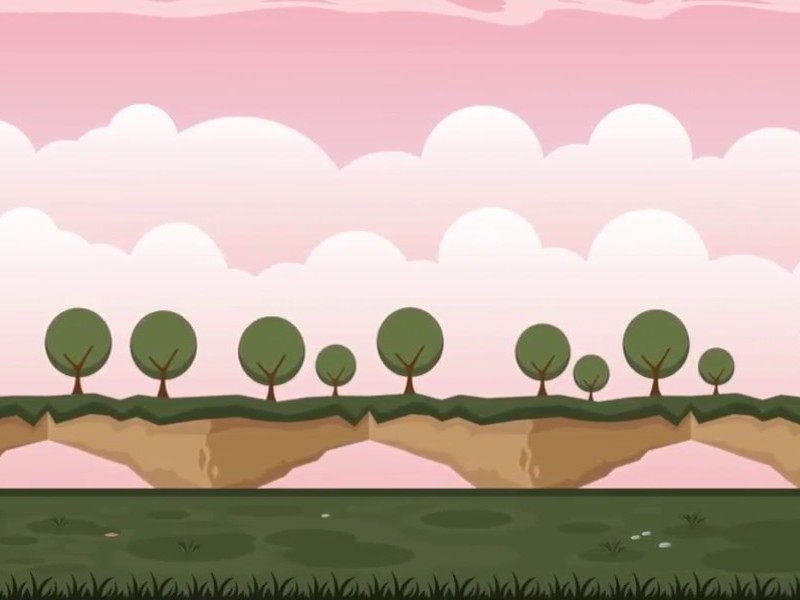
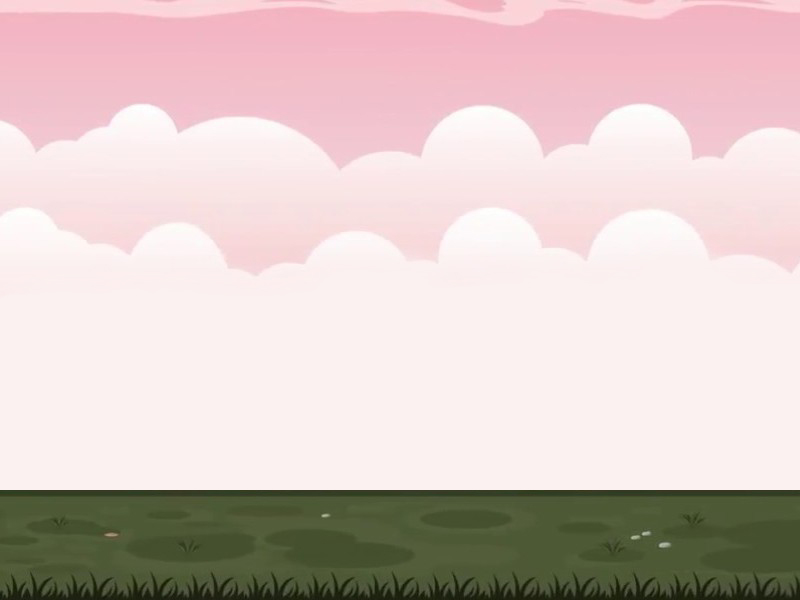
add stone,cloud

Changed region(s): [[0.0, 0.51, 1.0, 0.84]]

diff --git a/DinoGame.py b/DinoGame.py
@@ -15,6 +15,10 @@ pygame.display.set_icon(icon)
 cactus_img = [pygame.image.load('Cactus0.png'), pygame.image.load('Cactus1.png'), pygame.image.load('Cactus2.png')]
 cactus_option = [69, 449, 37, 410, 40, 420]
 
+stone_img = [pygame.image.load('Stone0.png'), pygame.image.load('Stone1.png')]
+cloud_img = [pygame.image.load('Cloud0.png'), pygame.image.load('Cloud1.png')]
+
+
 class Cactus:
     def __init__(self, x, y, width, image, speed):
         self.x = x
@@ -150,6 +154,12 @@ def draw_array(array):
 
             cactus.return_self(radius, height, width, img)
 
+def open_random_objects(stone, cloud):
+    choice = random.randrange(0, 2)
+    img_of_stone = stone_img[choice]
+
+    choice = random.randrange(0, 2)
+    img_of_cloud = cloud_img[choice]
 
 run_game()
 
